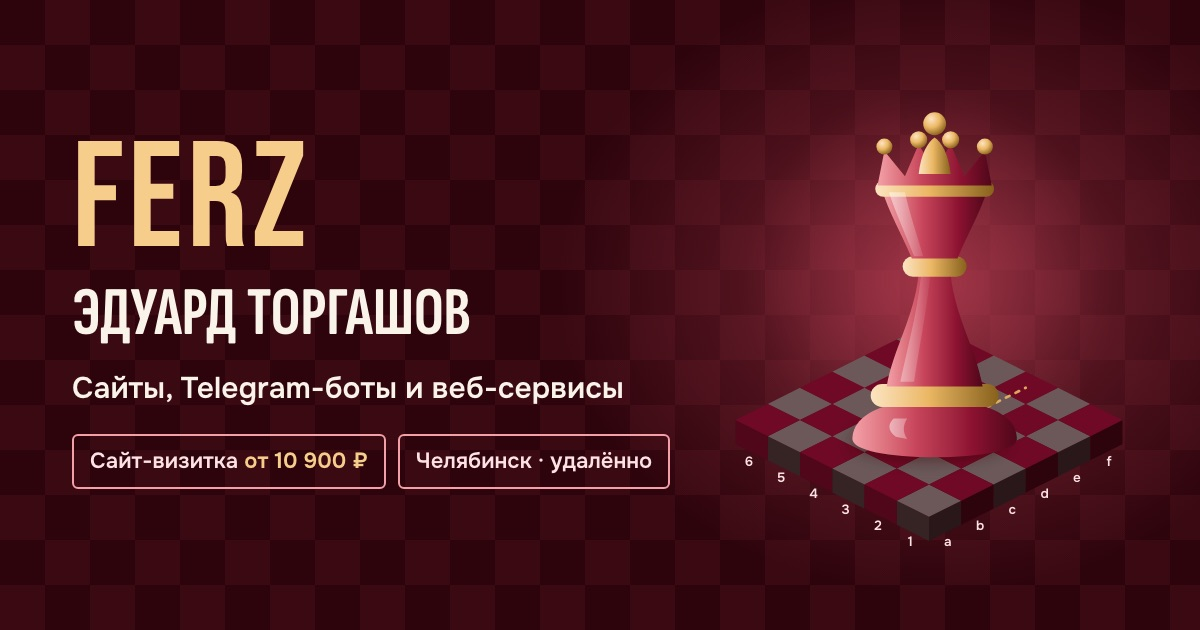
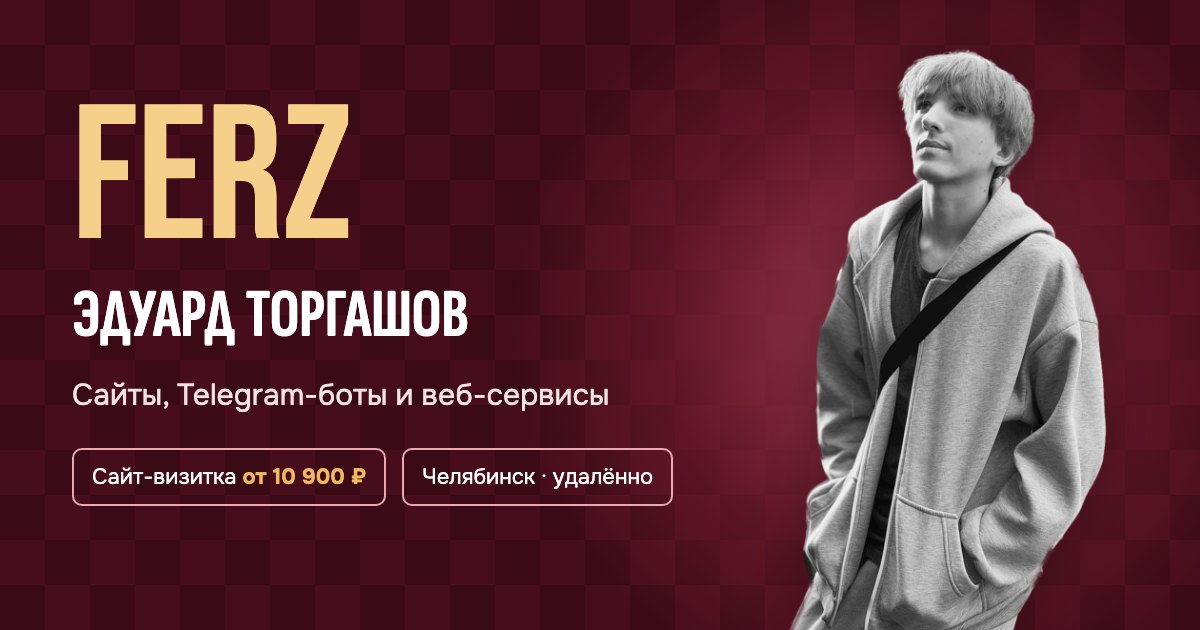
Кнопки заявки в карточках услуг и новое превью для ссылок
- В каждой карточке услуг кнопка «Оставить заявку»: ведёт к форме и выбирает нужный тип проекта
- Подпись карточки магазина: «Решительный шаг»
- og-image: портрет вместо ферзя, обновлён alt в index.html и privacy.html

diff --git a/index.html b/index.html
@@ -23,7 +23,7 @@
   <meta property="og:image:type" content="image/jpeg">
   <meta property="og:image:width" content="1200">
   <meta property="og:image:height" content="630">
-  <meta property="og:image:alt" content="Ferz — Эдуард Торгашов: сайты, Telegram-боты и веб-сервисы. Бордовый ферзь на шахматной доске.">
+  <meta property="og:image:alt" content="Ferz — Эдуард Торгашов: сайты, Telegram-боты и веб-сервисы. Чёрно-белый портрет на бордовом фоне в шахматную клетку.">
   <meta name="twitter:card" content="summary_large_image">
   <meta name="twitter:title" content="Ferz — сайты, Telegram-боты и веб-сервисы">
   <meta name="twitter:description" content="Эдуард Торгашов, разработчик из Челябинска. Сайт-визитка от 10 900 ₽, Telegram-бот от 4 900 ₽, веб-сервисы с админ-панелью.">
@@ -210,7 +210,7 @@
             </picture>
             <figcaption class="portrait__cap">
               <span class="portrait__name">Эдуард Торгашов</span>
-              <span class="portrait__meta"><span lang="en">Ferz</span> · Челябинск · удалённо</span>
+              <span class="portrait__meta">Челябинск · удалённо</span>
             </figcaption>
           </figure>
         </div>
@@ -259,6 +259,7 @@
             </dl>
             <p class="card__price"><span class="card__from">от</span> <span class="display">10&nbsp;900</span> <span class="rub">₽</span></p>
             <p class="card__time">Срок: <span class="nowrap">2–4&nbsp;дня</span></p>
+            <a class="btn btn--ghost btn--sm card__cta" href="#contact" data-order="Сайт-визитка">Оставить заявку <span class="btn__arrow" aria-hidden="true">→</span></a>
           </li>
           <li class="card card--wide">
             <svg class="card__piece" viewBox="0 0 64 64" aria-hidden="true" focusable="false"><use href="#pc-knight"/></svg>
@@ -271,6 +272,7 @@
             </dl>
             <p class="card__price"><span class="card__from">от</span> <span class="display">14&nbsp;900</span> <span class="rub">₽</span></p>
             <p class="card__time">Срок: зависит от&nbsp;объёма</p>
+            <a class="btn btn--ghost btn--sm card__cta" href="#contact" data-order="Лендинг">Оставить заявку <span class="btn__arrow" aria-hidden="true">→</span></a>
           </li>
           <li class="card">
             <svg class="card__piece" viewBox="0 0 64 64" aria-hidden="true" focusable="false"><use href="#pc-bishop"/></svg>
@@ -283,6 +285,7 @@
             </dl>
             <p class="card__price"><span class="card__from">от</span> <span class="display">4&nbsp;900</span> <span class="rub">₽</span></p>
             <p class="card__time">Срок: до&nbsp;10 дней, зависит от&nbsp;сложности</p>
+            <a class="btn btn--ghost btn--sm card__cta" href="#contact" data-order="Telegram-бот">Оставить заявку <span class="btn__arrow" aria-hidden="true">→</span></a>
           </li>
           <li class="card">
             <svg class="card__piece" viewBox="0 0 64 64" aria-hidden="true" focusable="false"><use href="#pc-rook"/></svg>
@@ -295,10 +298,11 @@
             </dl>
             <p class="card__price"><span class="card__from">от</span> <span class="display">30&nbsp;000</span> <span class="rub">₽</span></p>
             <p class="card__time">Срок: зависит от&nbsp;объёма</p>
+            <a class="btn btn--ghost btn--sm card__cta" href="#contact" data-order="Веб-сервис">Оставить заявку <span class="btn__arrow" aria-hidden="true">→</span></a>
           </li>
           <li class="card">
             <svg class="card__piece" viewBox="0 0 64 64" aria-hidden="true" focusable="false"><use href="#pc-king"/></svg>
-            <p class="card__kicker">Тонкий&nbsp;рассчет</p>
+            <p class="card__kicker">Решительный&nbsp;шаг</p>
             <h3 class="card__title">Интернет-магазин</h3>
             <p class="card__for">Для тех, кто продаёт товары онлайн.</p>
             <dl class="card__detail">
@@ -307,6 +311,7 @@
             </dl>
             <p class="card__price card__price--text"><span class="display">Индиви&shy;дуально</span></p>
             <p class="card__time">Срок и&nbsp;цена — после обсуждения задачи</p>
+            <a class="btn btn--ghost btn--sm card__cta" href="#contact" data-order="Интернет-магазин">Оставить заявку <span class="btn__arrow" aria-hidden="true">→</span></a>
           </li>
         </ul>
 

diff --git a/js/main.js b/js/main.js
@@ -542,6 +542,21 @@
     else window.addEventListener('load', start);
   }
 
+  /* ---------- Кнопки заявки в карточках услуг: выбирают тип проекта в форме ---------- */
+  function initOrderButtons() {
+    var form = document.getElementById('brief-form');
+    if (!form) return;
+    Array.prototype.forEach.call(document.querySelectorAll('[data-order]'), function (btn) {
+      btn.addEventListener('click', function () {
+        var want = btn.getAttribute('data-order');
+        Array.prototype.forEach.call(form.querySelectorAll('input[name="type"]'), function (r) {
+          if (r.value === want) r.checked = true;
+        });
+        track('order-' + want);
+      });
+    });
+  }
+
   /* ---------- Копирование адреса ---------- */
   function initCopy() {
     var status = document.querySelector('.copy-status');
@@ -850,6 +865,7 @@
     safe('reveal', initReveal);
     safe('copy', initCopy);
     safe('form', initForm);
+    safe('order', initOrderButtons);
     safe('track', initTrackLinks);
     safe('year', initYear);
   }

diff --git a/privacy.html b/privacy.html
@@ -21,7 +21,7 @@
   <meta property="og:image:type" content="image/jpeg">
   <meta property="og:image:width" content="1200">
   <meta property="og:image:height" content="630">
-  <meta property="og:image:alt" content="Ferz — Эдуард Торгашов: сайты, Telegram-боты и веб-сервисы. Бордовый ферзь на шахматной доске.">
+  <meta property="og:image:alt" content="Ferz — Эдуард Торгашов: сайты, Telegram-боты и веб-сервисы. Чёрно-белый портрет на бордовом фоне в шахматную клетку.">
   <meta name="twitter:card" content="summary_large_image">
   <link rel="icon" href="assets/favicon.svg" type="image/svg+xml">
   <link rel="apple-touch-icon" href="assets/apple-touch-icon.png">

diff --git a/css/main.css b/css/main.css
@@ -1350,6 +1350,7 @@ html:not(.js-ready) .queen-layer__label { display: none; }
 .card__price--text .display { font-size: var(--display-1); overflow-wrap: anywhere; }
 .card__price .rub { font-size: var(--step-2); vertical-align: 0.1em; margin-left: 0.1em; }
 .card__from { font-weight: 600; font-size: var(--step-0); color: var(--fg); margin-right: 0.15em; }
+.card__cta { align-self: flex-start; margin-top: var(--space-4); }
 .card__time {
   margin-top: var(--space-3);
   padding-top: var(--space-3);
